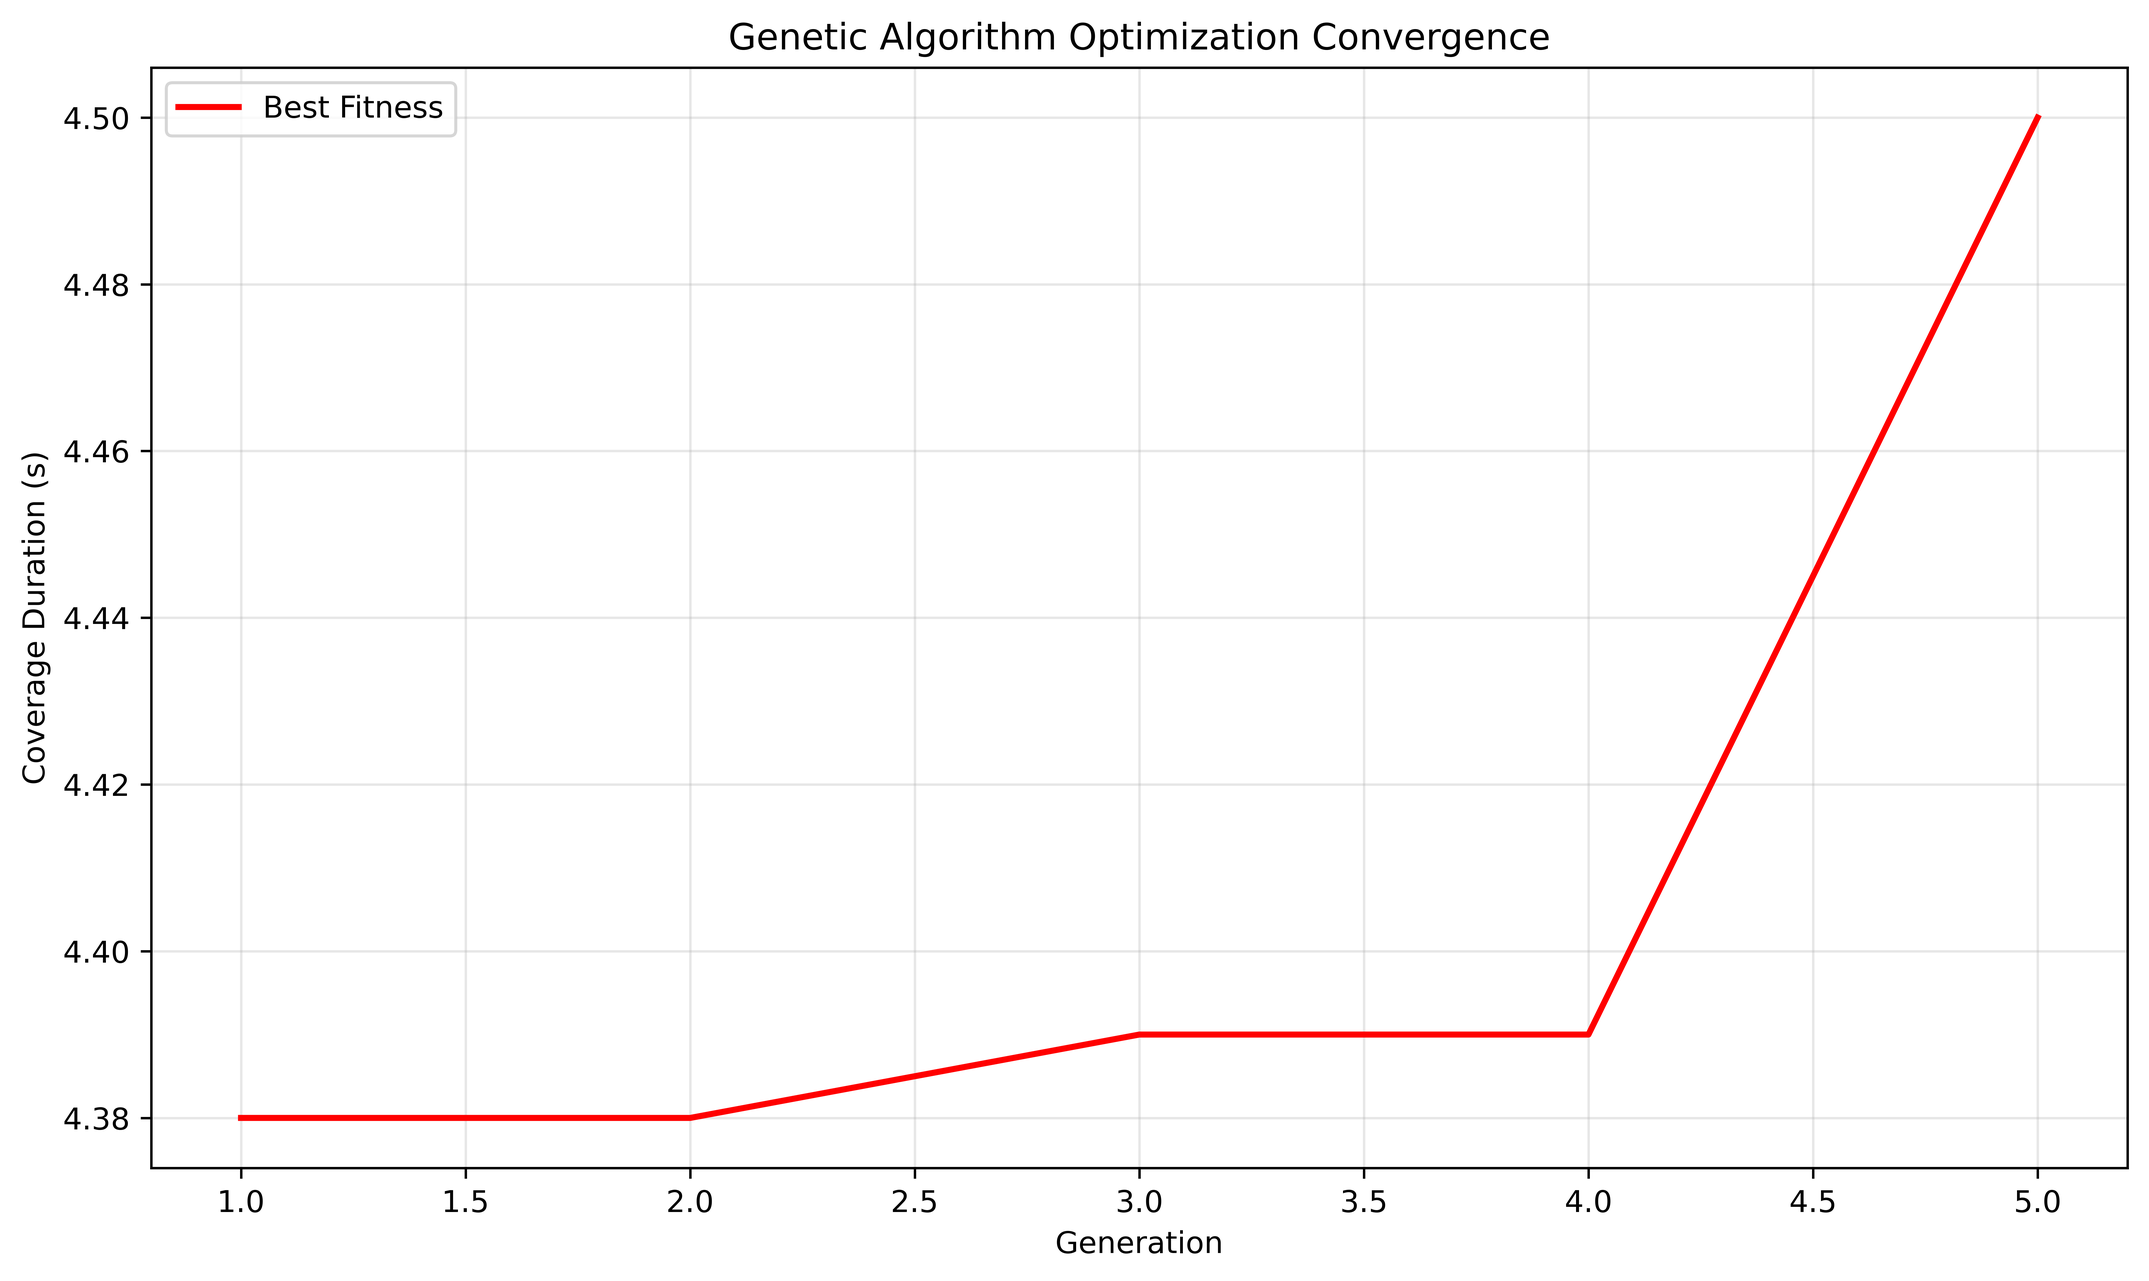
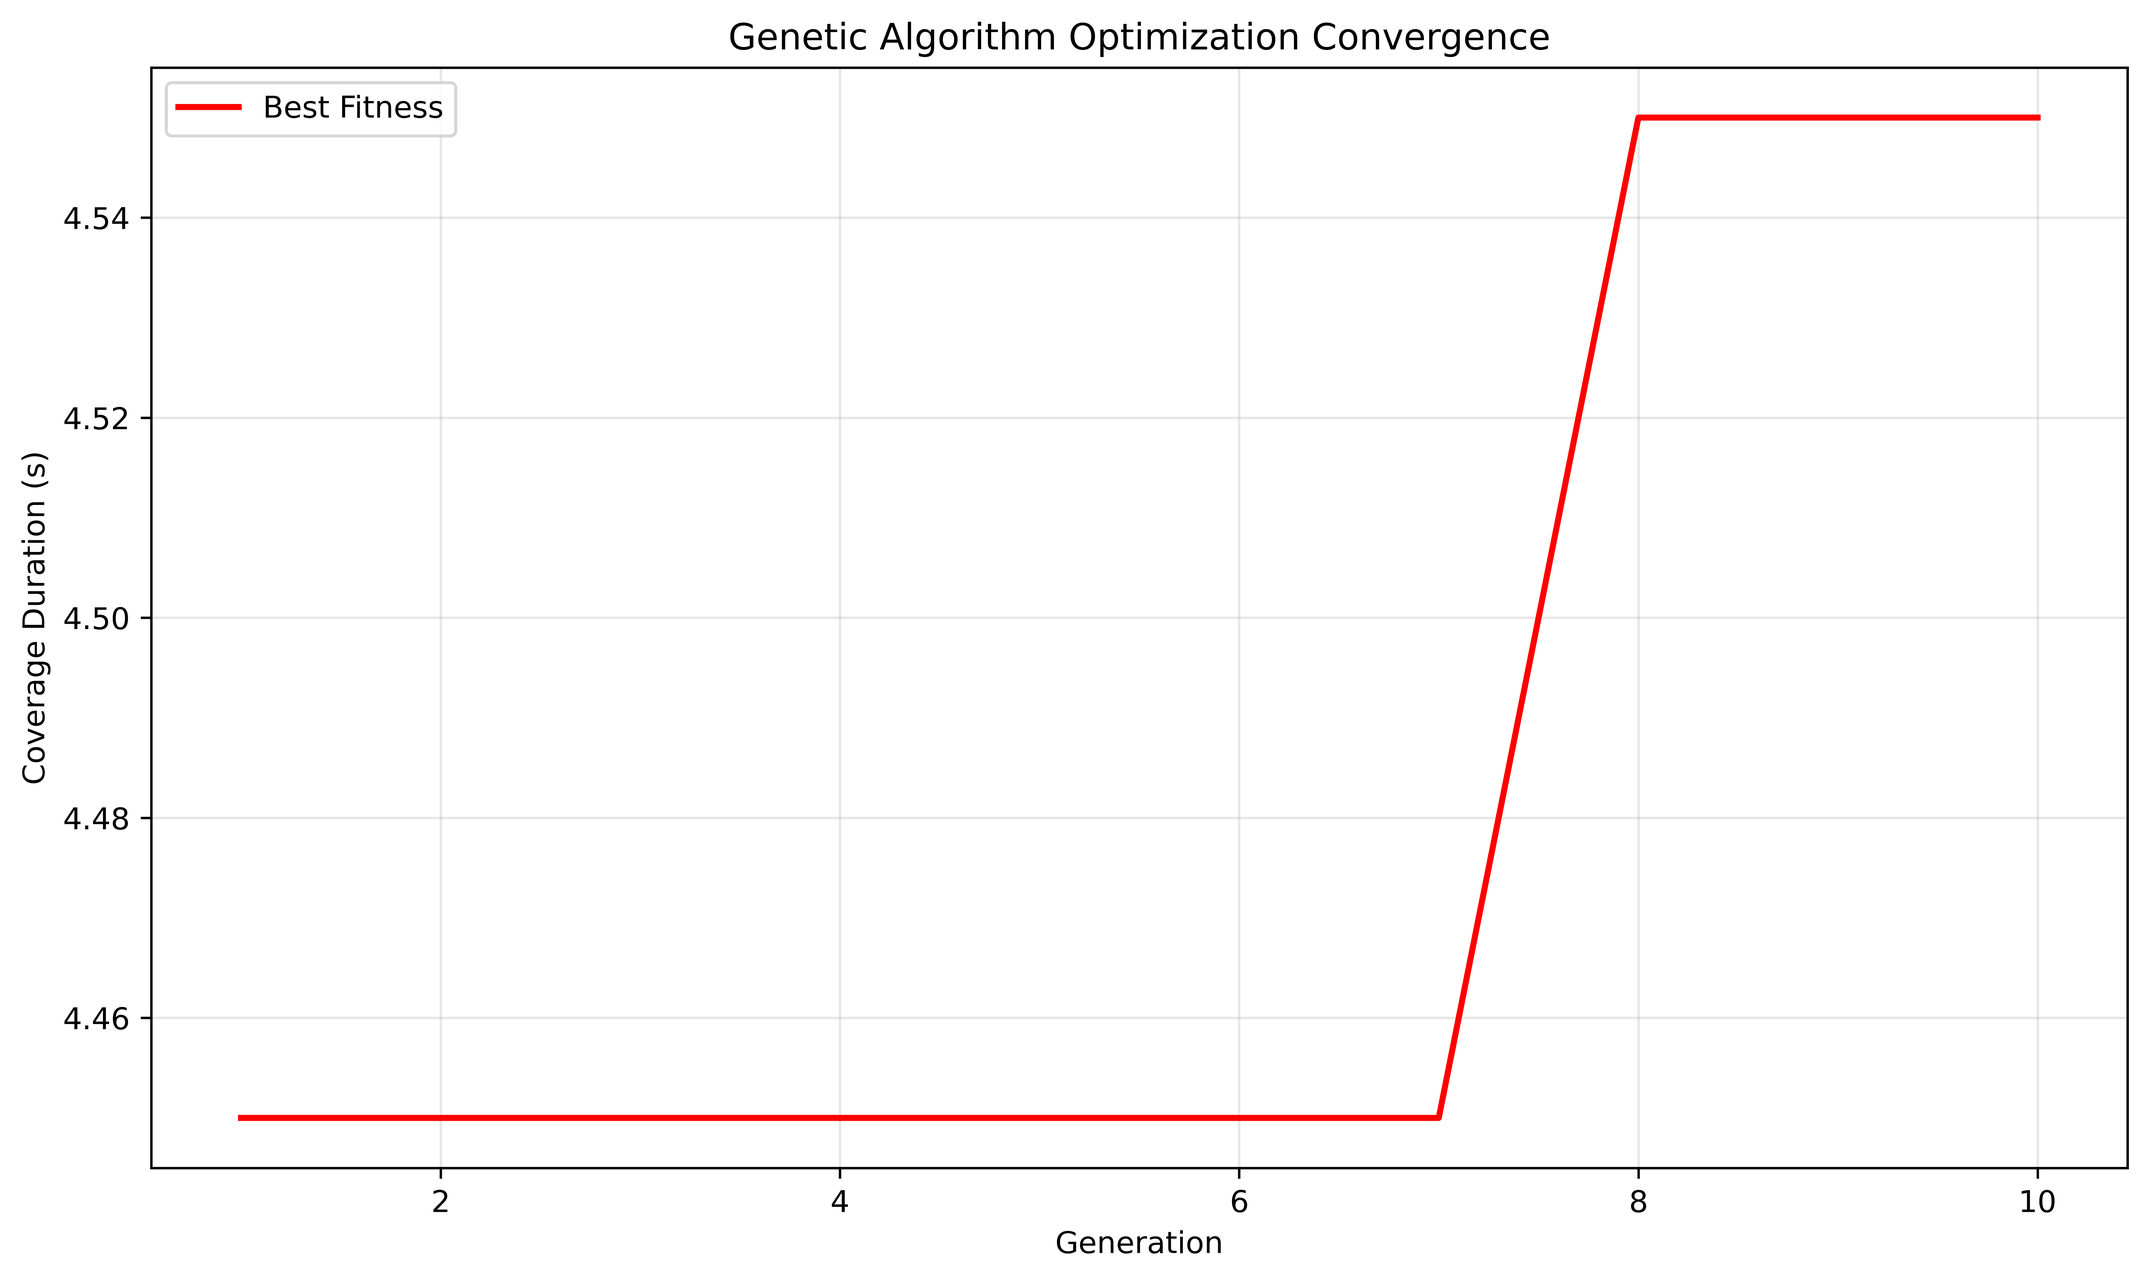
update

diff --git a/src/GA.py b/src/GA.py
@@ -7,9 +7,10 @@ import json
 
 
 class GeneticOptimizer:
-    def __init__(self, global_system, drone_id, n_jammers, population_size, generations):
+    def __init__(self, global_system, drone_ids, n_jammers, population_size, generations):
         self.global_system = global_system
-        self.drone_id = drone_id
+        self.drone_ids = [drone_ids] if isinstance(
+            drone_ids, str) else drone_ids
         self.n_jammers = n_jammers
         self.population_size = population_size
         self.generations = generations
@@ -19,98 +20,116 @@ class GeneticOptimizer:
     def create_individual(self):
         with open('data-bin/ga_initial_params.json', 'r', encoding='utf-8') as f:
             params = json.load(f)
-        velocity_x = params['velocity']['velocity_x']
-        velocity_y = params['velocity']['velocity_y']
-        velocity_magnitude = np.sqrt(velocity_x**2 + velocity_y**2)
 
-        if velocity_magnitude < 70:
-            scale = 70 / velocity_magnitude
-            velocity_x *= scale
-            velocity_y *= scale
-        elif velocity_magnitude > 140:
-            scale = 140 / velocity_magnitude
-            velocity_x *= scale
-            velocity_y *= scale
+        individual = {}
+        for drone_id in self.drone_ids:
+            velocity_x = params['velocity']['velocity_x'] + \
+                random.uniform(-10, 10)
+            velocity_y = params['velocity']['velocity_y'] + \
+                random.uniform(-10, 10)
+            velocity_magnitude = np.sqrt(velocity_x**2 + velocity_y**2)
 
-        jammers = []
-        for _ in range(self.n_jammers):
-            father_t = params['jammers']['father_t']
-            smoke_delay = params['jammers']['smoke_delay']
-            jammers.append((father_t, smoke_delay))
-        return [velocity_x, velocity_y, jammers]
+            if velocity_magnitude < 70:
+                scale = 70 / velocity_magnitude
+                velocity_x *= scale
+                velocity_y *= scale
+            elif velocity_magnitude > 140:
+                scale = 140 / velocity_magnitude
+                velocity_x *= scale
+                velocity_y *= scale
+
+            jammers = []
+            for _ in range(self.n_jammers):
+                father_t = params['jammers']['father_t'] + \
+                    random.uniform(-0.5, 0.5)
+                smoke_delay = params['jammers']['smoke_delay'] + \
+                    random.uniform(-0.5, 0.5)
+                father_t = max(0.0, father_t)
+                smoke_delay = max(0.0, smoke_delay)
+                jammers.append((father_t, smoke_delay))
+
+            individual[drone_id] = [velocity_x, velocity_y, jammers]
+
+        return individual
 
     def evaluate_individual(self, individual):
-        self.global_system.reset_jammers(self.drone_id)
-        self.global_system.update_drone_velocity(
-            self.drone_id, [individual[0], individual[1], 0])
-
-        for father_t, smoke_delay in individual[2]:
-            self.global_system.add_jammers(
-                self.drone_id, father_t, smoke_delay)
+        for drone_id in self.drone_ids:
+            self.global_system.reset_jammers(drone_id)
+            drone_data = individual[drone_id]
+            self.global_system.update_drone_velocity(
+                drone_id, [drone_data[0], drone_data[1], 0])
+            for father_t, smoke_delay in drone_data[2]:
+                self.global_system.add_jammers(drone_id, father_t, smoke_delay)
         return self.global_system.get_cover_seconds_all_jammers()
 
     def crossover(self, parent1, parent2):
-        import random
-        child = []
-        alpha = random.uniform(0.3, 0.7)
-        child.append(alpha * parent1[0] + (1 - alpha)
-                     * parent2[0] + random.gauss(0, 5))
-        child.append(alpha * parent1[1] + (1 - alpha)
-                     * parent2[1] + random.gauss(0, 5))
-        velocity_magnitude = np.sqrt(child[0]**2 + child[1]**2)
-        if velocity_magnitude < 70:
-            scale = 70 / velocity_magnitude
-            child[0] *= scale
-            child[1] *= scale
-        elif velocity_magnitude > 140:
-            scale = 140 / velocity_magnitude
-            child[0] *= scale
-            child[1] *= scale
+        child = {}
+        for drone_id in self.drone_ids:
+            alpha = random.uniform(0.3, 0.7)
+            child_x = alpha * \
+                parent1[drone_id][0] + (1 - alpha) * \
+                parent2[drone_id][0] + random.gauss(0, 5)
+            child_y = alpha * \
+                parent1[drone_id][1] + (1 - alpha) * \
+                parent2[drone_id][1] + random.gauss(0, 5)
+            velocity_magnitude = np.sqrt(child_x**2 + child_y**2)
+            if velocity_magnitude < 70:
+                scale = 70 / velocity_magnitude
+                child_x *= scale
+                child_y *= scale
+            elif velocity_magnitude > 140:
+                scale = 140 / velocity_magnitude
+                child_x *= scale
+                child_y *= scale
 
-        child_jammers = []
-        for i in range(len(parent1[2])):
-            if random.random() < 0.6:
-                beta = random.uniform(0.2, 0.8)
-                father_t = beta * parent1[2][i][0] + \
-                    (1 - beta) * parent2[2][i][0]
-                smoke_delay = beta * \
-                    parent1[2][i][1] + (1 - beta) * parent2[2][i][1]
-                child_jammers.append((father_t, smoke_delay))
-            else:
-                child_jammers.append(random.choice(
-                    [parent1[2][i], parent2[2][i]]))
-        child.append(child_jammers)
+            child_jammers = []
+            for i in range(len(parent1[drone_id][2])):
+                if random.random() < 0.6:
+                    beta = random.uniform(0.2, 0.8)
+                    father_t = beta * \
+                        parent1[drone_id][2][i][0] + \
+                        (1 - beta) * parent2[drone_id][2][i][0]
+                    smoke_delay = beta * \
+                        parent1[drone_id][2][i][1] + \
+                        (1 - beta) * parent2[drone_id][2][i][1]
+                    child_jammers.append((father_t, smoke_delay))
+                else:
+                    child_jammers.append(random.choice(
+                        [parent1[drone_id][2][i], parent2[drone_id][2][i]]))
+            child[drone_id] = [child_x, child_y, child_jammers]
         return child
 
     def mutate(self, individual, generation):
         mutation_rate = 0.25 if generation < self.generations // 2 else 0.15
 
-        if random.random() < mutation_rate:
-            noise_scale = max(5, 30 - generation * 25 / self.generations)
-            individual[0] += random.gauss(0, noise_scale)
-            individual[1] += random.gauss(0, noise_scale)
-            velocity_magnitude = np.sqrt(individual[0]**2 + individual[1]**2)
-            if velocity_magnitude < 70:
-                scale = 70 / velocity_magnitude
-                individual[0] *= scale
-                individual[1] *= scale
-            elif velocity_magnitude > 140:
-                scale = 140 / velocity_magnitude
-                individual[0] *= scale
-                individual[1] *= scale
+        for drone_id in self.drone_ids:
+            if random.random() < mutation_rate:
+                noise_scale = max(5, 30 - generation * 25 / self.generations)
+                individual[drone_id][0] += random.gauss(0, noise_scale)
+                individual[drone_id][1] += random.gauss(0, noise_scale)
+                velocity_magnitude = np.sqrt(
+                    individual[drone_id][0]**2 + individual[drone_id][1]**2)
+                if velocity_magnitude < 70:
+                    scale = 70 / velocity_magnitude
+                    individual[drone_id][0] *= scale
+                    individual[drone_id][1] *= scale
+                elif velocity_magnitude > 140:
+                    scale = 140 / velocity_magnitude
+                    individual[drone_id][0] *= scale
+                    individual[drone_id][1] *= scale
 
-        for i in range(len(individual[2])):
-            if random.random() < 0.15:
-                noise_t = max(0.1, 0.5 - generation * 0.4 / self.generations)
-                noise_delay = max(0.1, 0.6 - generation *
-                                  0.5 / self.generations)
-
-                new_father_t = max(0.0, min(5.0,
-                                            individual[2][i][0] + random.gauss(0, noise_t)))
-                new_smoke_delay = max(0.0, min(5.0,
-                                               individual[2][i][1] + random.gauss(0, noise_delay)))
-
-                individual[2][i] = (new_father_t, new_smoke_delay)
+            for i in range(len(individual[drone_id][2])):
+                if random.random() < 0.15:
+                    noise_t = max(0.1, 0.5 - generation *
+                                  0.4 / self.generations)
+                    noise_delay = max(0.1, 0.6 - generation *
+                                      0.5 / self.generations)
+                    new_father_t = max(
+                        0.0, min(5.0, individual[drone_id][2][i][0] + random.gauss(0, noise_t)))
+                    new_smoke_delay = max(
+                        0.0, min(5.0, individual[drone_id][2][i][1] + random.gauss(0, noise_delay)))
+                    individual[drone_id][2][i] = (
+                        new_father_t, new_smoke_delay)
         return individual
 
     def tournament_selection(self, population, fitnesses, tournament_size=3):
@@ -169,27 +188,28 @@ class GeneticOptimizer:
 
         if self.best_individual:
             result = {
-                'velocity': [self.best_individual[0], self.best_individual[1], 0],
-                'jammers': self.best_individual[2],
+                'drones': self.best_individual,
                 'duration': self.best_fitness
             }
+
             self.save_result_to_file(result)
             return result
         return None
 
     def save_result_to_file(self, result):
-        if not os.path.exists('output'):
-            os.makedirs('output')
         timestamp = datetime.datetime.now().strftime("%Y-%m-%d %H:%M:%S")
         with open('output/optimization_results.txt', 'a', encoding='utf-8') as f:
             f.write(f"优化结果 - {timestamp}\n")
-            f.write(
-                f"速度: [{result['velocity'][0]:.2f}, {result['velocity'][1]:.2f}, {result['velocity'][2]:.2f}]\n")
             f.write(f"覆盖时长: {result['duration']:.3f}秒\n")
-            f.write(f"干扰弹参数:\n")
-            for i, (father_t, smoke_delay) in enumerate(result['jammers']):
+
+            for drone_id, drone_data in result['drones'].items():
+                f.write(f"{drone_id}:\n")
                 f.write(
-                    f"  干扰弹{i+1}: 发射时间={father_t:.2f}s, 烟雾延迟={smoke_delay:.2f}s\n")
+                    f"  速度: [{drone_data[0]:.2f}, {drone_data[1]:.2f}, 0.00]\n")
+                f.write(f"  干扰弹参数:\n")
+                for i, (father_t, smoke_delay) in enumerate(drone_data[2]):
+                    f.write(
+                        f"    干扰弹{i+1}: 发射时间={father_t:.2f}s, 烟雾延迟={smoke_delay:.2f}s\n")
             f.write("-" * 50 + "\n")
 
         print(f"结果已保存到 output/optimization_results.txt")

diff --git a/src/Q2_3.py b/src/Q2_3.py
@@ -12,17 +12,18 @@ def optimize_Q23():
     print("Starting optimization ")
 
     best_params = global_sys.optimize_single_missile_drone_all_jammers(
-        drone_id='FY1', n_jammers=3, population_size=150, generations=300, plot_convergence=True)
+        drone_ids=['FY1', 'FY2'], n_jammers=1, population_size=150, generations=10, plot_convergence=True)
 
     if best_params:
         print(f"\nOptimization completed!")
         print(f"Best coverage duration: {best_params['duration']:.2f} seconds")
-        print(
-            f"Optimal velocity: [{best_params['velocity'][0]:.1f}, {best_params['velocity'][1]:.1f}, 0]")
-        print(f"Jammer parameters:")
-        for i, (father_t, smoke_delay) in enumerate(best_params['jammers']):
-            print(
-                f"  Jammer {i+1}: release_t={father_t:.2f}s, smoke_delay={smoke_delay:.2f}s")
+        for drone_id, drone_data in best_params['drones'].items():
+            print(f"{drone_id}:")
+            print(f"  Velocity: [{drone_data[0]:.1f}, {drone_data[1]:.1f}, 0]")
+            print(f"  Jammer parameters:")
+            for i, (father_t, smoke_delay) in enumerate(drone_data[2]):
+                print(
+                    f"    Jammer {i+1}: release_t={father_t:.2f}s, smoke_delay={smoke_delay:.2f}s")
 
         test(global_sys, best_params)
     else:
@@ -30,10 +31,13 @@ def optimize_Q23():
 
 
 def test(global_sys, best_params):
-    global_sys.reset_jammers('FY1')
-    global_sys.update_drone_velocity('FY1', best_params['velocity'])
-    for father_t, smoke_delay in best_params['jammers']:
-        global_sys.add_jammers('FY1', father_t, smoke_delay)
+    for drone_id, drone_data in best_params['drones'].items():
+        global_sys.reset_jammers(drone_id)
+        global_sys.update_drone_velocity(
+            drone_id, [drone_data[0], drone_data[1], 0])
+        for father_t, smoke_delay in drone_data[2]:
+            global_sys.add_jammers(drone_id, father_t, smoke_delay)
+
     final_duration = global_sys.get_cover_seconds_all_jammers()
     cover_intervals = global_sys.get_cover_intervals_all_jammers()
     print(f"\nVerification: {final_duration:.2f} seconds coverage")
@@ -41,9 +45,18 @@ def test(global_sys, best_params):
     for i, (start, end) in enumerate(cover_intervals):
         print(
             f"  Interval {i+1}: {start:.2f}s - {end:.2f}s (duration: {end-start:.2f}s)")
+
+    all_jammers = []
+    for drone_id in best_params['drones']:
+        all_jammers.extend(global_sys.jammers[drone_id])
+
+    # 准备所有相关的drone对象
+    active_drones = {
+        drone_id: global_sys.Drones[drone_id] for drone_id in best_params['drones']}
+
     virtualize_all_jammers(
-        8.0, global_sys.Missiles['M1'], global_sys.Drones['FY1'],
-        global_sys.jammers['FY1'], global_sys.true_goal)
+        8.0, global_sys.Missiles['M1'], active_drones,
+        all_jammers, global_sys.true_goal)
 
 
 if __name__ == '__main__':
@@ -53,8 +66,8 @@ if __name__ == '__main__':
     #     drones_forward_vector = json.load(f)
     # global_sys = Global_System_Q123(initial_positions, drones_forward_vector)
     # best_params = {
-    #     'velocity': [-89.249, 0, 0],
-    #     'jammers': [(1.239, 0)]
+    #     'velocity': [-116.099, 1, 0],
+    #     'jammers': [(0.746, 0.27)]
     # }
     # test(global_sys, best_params)
     optimize_Q23()

diff --git a/src/Virtualizer.py b/src/Virtualizer.py
@@ -8,18 +8,25 @@ def virtualize_single_jammer(global_t, missile, drone, jammer, true_goal):
     virtualize_all_jammers(global_t, missile, drone, jammers, true_goal)
 
 
-def virtualize_all_jammers(global_t, missile, drone, jammers, true_goal):
+def virtualize_all_jammers(global_t, missile, drones, jammers, true_goal):
     """可视化所有干扰弹的函数"""
     fig = plt.figure(figsize=(12, 10))
     ax = fig.add_subplot(111, projection='3d')
 
     missile_pos = missile.get_pos(global_t)
-    drone_pos = drone.get_pos(global_t)
     target_pos = true_goal.bottom_center_pos
 
     ax.scatter(*missile_pos, color='darkred', s=60, label='M1 Missile')
-    ax.scatter(*drone_pos, color='blue', s=60, label='FY1 Drone')
     ax.scatter(*target_pos, color='green', s=50, label='True Target')
+    
+    # 支持单个drone或多个drones
+    if hasattr(drones, 'get_pos'):  # 单个drone对象
+        drone_pos = drones.get_pos(global_t)
+        ax.scatter(*drone_pos, color='darkred', s=60, label='Drone')
+    else:  # 多个drone的字典
+        for i, (drone_id, drone) in enumerate(drones.items()):
+            drone_pos = drone.get_pos(global_t)
+            ax.scatter(*drone_pos, color='darkred', s=60, label=f'{drone_id}' if i == 0 else "")
 
     colors = ['orange', 'yellow', 'cyan', 'magenta', 'lime']
     active_smoke_count = 0

diff --git a/src/Problem_object.py b/src/Problem_object.py
@@ -175,8 +175,11 @@ class Global_System_Q123:
         covered_times = []
         test_times = np.arange(5.1, 20, 0.01)
         for t in test_times:
+            all_jammers = []
+            for drone_id in self.jammers:
+                all_jammers.extend(self.jammers[drone_id])
             result = self.detect_occlusion_all_jammers(
-                t, self.Missiles['M1'], self.jammers['FY1'])
+                t, self.Missiles['M1'], all_jammers)
             if result:
                 covered_times.append(t)
 
@@ -204,10 +207,9 @@ class Global_System_Q123:
     def reset_jammers(self, drone_id):
         self.jammers[drone_id] = []
 
-    def optimize_single_missile_drone_all_jammers(self, drone_id, n_jammers,
+    def optimize_single_missile_drone_all_jammers(self, drone_ids, n_jammers,
                                                   population_size,
-                                                  generations,
-                                                  plot_convergence):
+                                                  generations, plot_convergence):
         optimizer = GeneticOptimizer(
-            self, drone_id, n_jammers, population_size, generations)
+            self, drone_ids, n_jammers, population_size, generations)
         return optimizer.optimize(plot_convergence)
